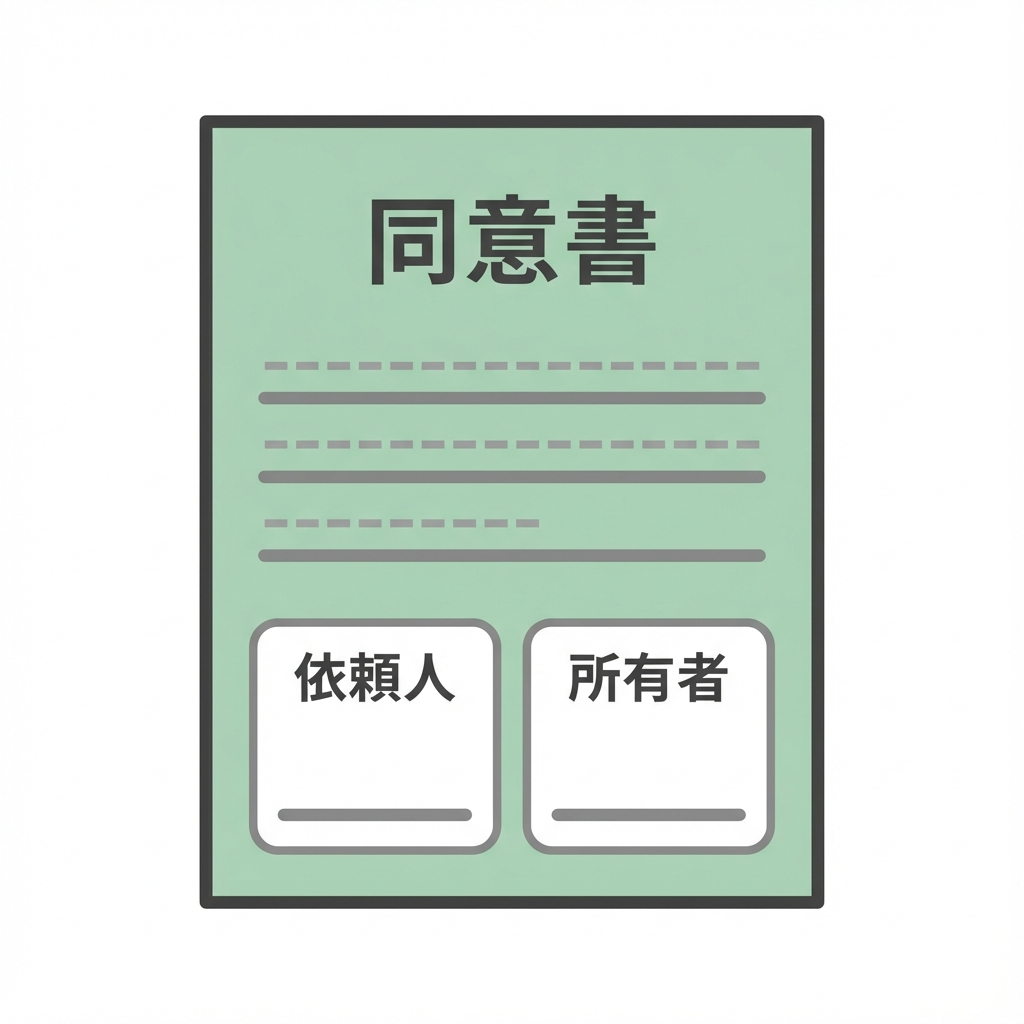
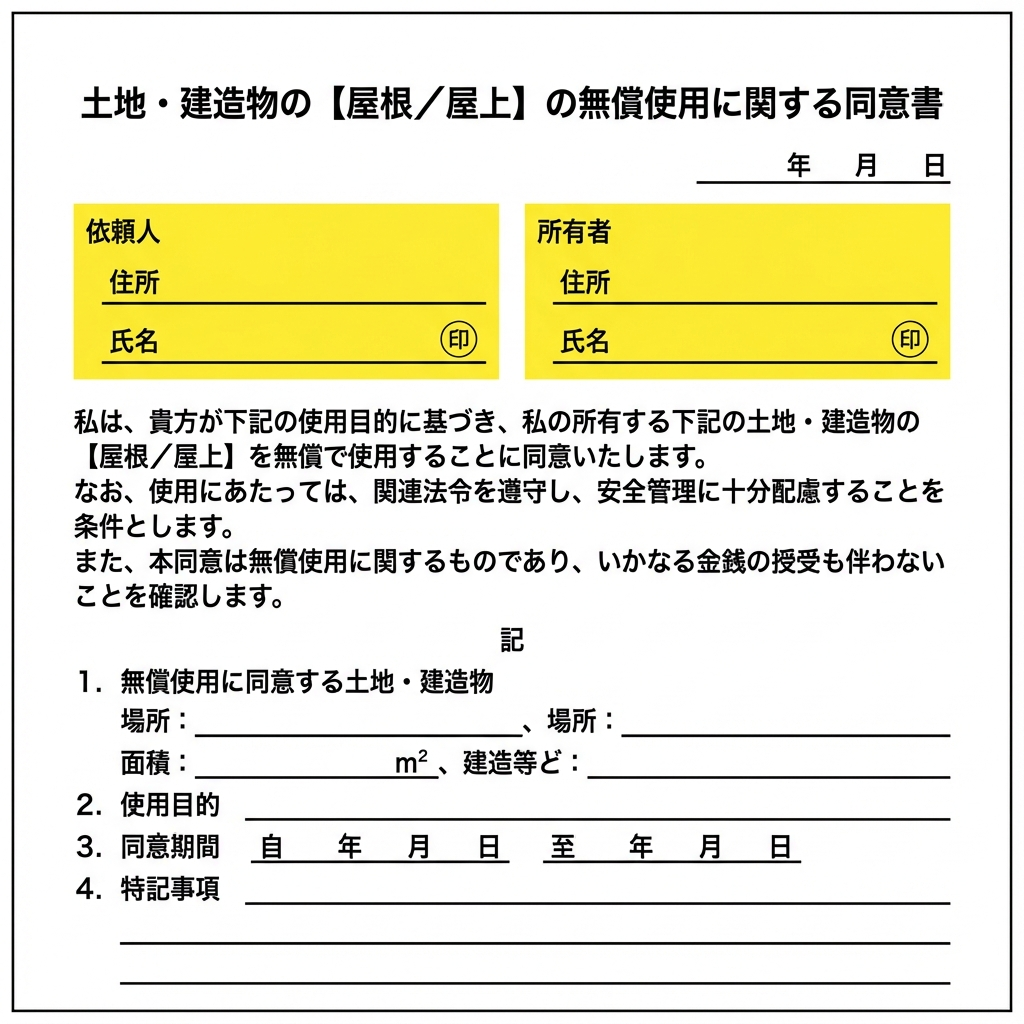
同意書のフルネーム使用、土地・建造物欄・同意期間欄は書かないステップを追加

diff --git a/course-b.html b/course-b.html
@@ -26,7 +26,7 @@
             <div class="step-indicator">
                 <span>ステップ</span>
                 <span class="step-indicator__current">1</span>
-                <span>/ <span class="step-indicator__total">8</span></span>
+                <span>/ <span class="step-indicator__total">10</span></span>
             </div>
 
             <!-- 音声コントロール -->
@@ -166,8 +166,8 @@
                 showWarning: false
             },
             {
-                text: '次に、<strong>「同意書」と書かれた紙</strong>を出してください。',
-                voice: '次に、同意書と書かれた紙を出してください。',
+                text: '次に、<strong>「土地・建造物の【屋根／屋上】の無償使用に関する同意書」</strong>を出してください。',
+                voice: '次に、土地・建造物の屋根・屋上の無償使用に関する同意書を出してください。',
                 image: 'images/illustration_consent.png',
                 imageAlt: '同意書のイメージ',
                 showWarning: false
@@ -180,11 +180,25 @@
                 showWarning: true
             },
             {
-                text: '「<strong>依頼人</strong>」と「<strong>所有者</strong>」の欄に、<br>あなたの<strong>住所・氏名</strong>を書き、<br><strong>実印</strong>を押してください。',
-                voice: '依頼人と所有者の欄に、あなたの住所と氏名を書き、実印を押してください。',
-                image: 'images/illustration_name_address.png',
+                text: '上部の「<strong>依頼人</strong>」と「<strong>所有者</strong>」の欄に、<br>あなたの<strong>住所・氏名</strong>を書き、<br><strong>実印</strong>を押してください。',
+                voice: '上部の依頼人と所有者の欄に、あなたの住所と氏名を書き、実印を押してください。',
+                image: 'images/illustration_consent.png',
                 imageAlt: '依頼人・所有者欄',
                 showWarning: false
+            },
+            {
+                text: '下の「記」の欄を見てください。<br><br>「<strong class="warning-text">無償使用に同意する土地・建造物</strong>」の欄は<br><strong class="warning-text">何も書かないでください。</strong>',
+                voice: '下の記の欄を見てください。無償使用に同意する土地・建造物の欄は、何も書かないでください。空欄のままでオーケーです。',
+                image: 'images/illustration_consent_no_write.png',
+                imageAlt: '土地・建造物欄は空欄',
+                showWarning: true
+            },
+            {
+                text: '「<strong class="warning-text">同意期間</strong>」の欄も<br><strong class="warning-text">何も書かないでください。</strong><br><br>空欄のままでOKです。',
+                voice: '同意期間の欄も何も書かないでください。空欄のままでオーケーです。',
+                image: 'images/illustration_consent_no_write.png',
+                imageAlt: '同意期間欄は空欄',
+                showWarning: true
             }
         ];
 
